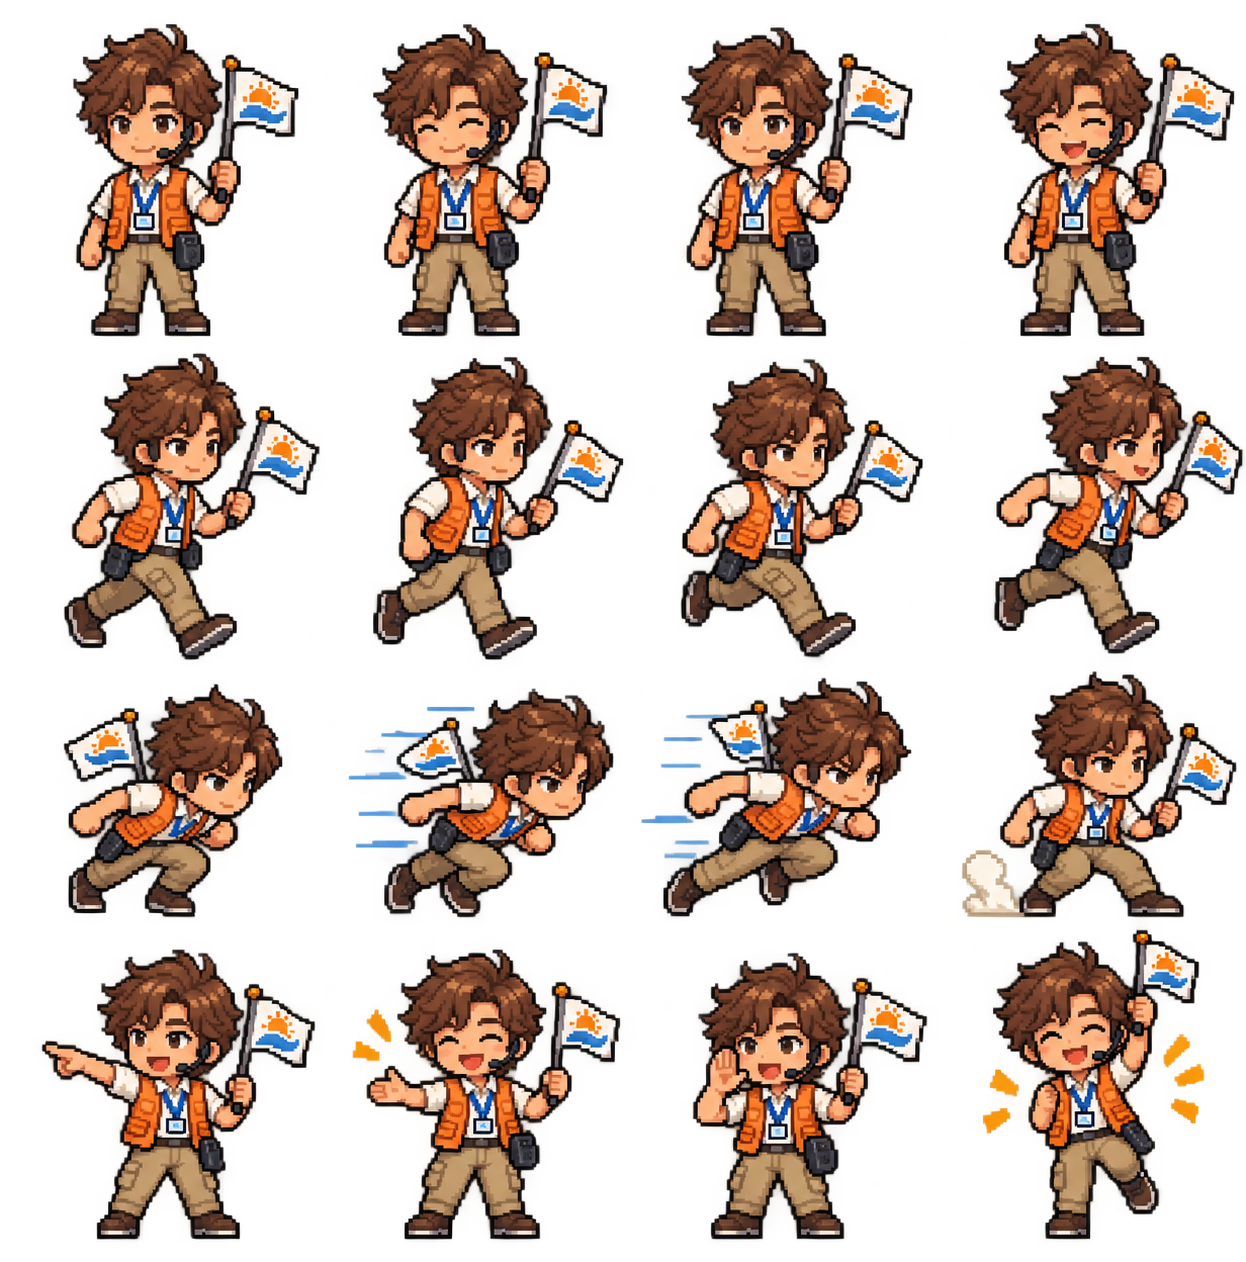
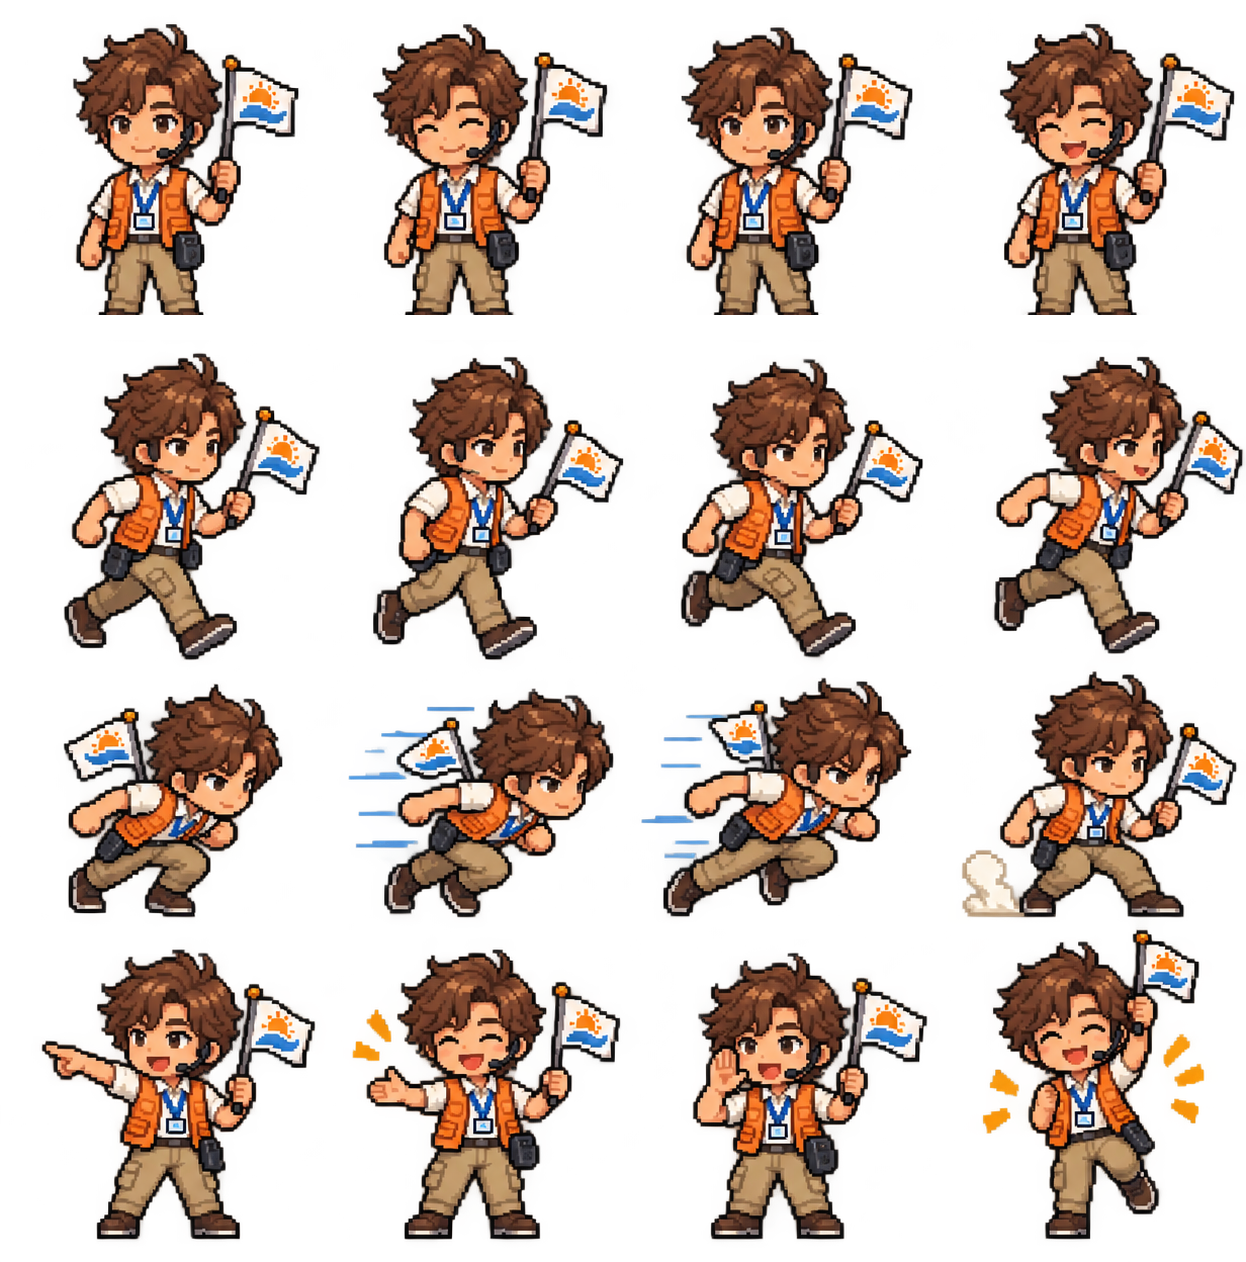
fix(character): 修正左右移動雙腳交替動畫與男導遊圖樣混用
- 修正側向移動對應至動作表 Row 1 (y=315/316) 步態循環，解決原本 Row 2 急停滑行無交替踩踏問題
- 修正 guide_directional_locomotion_sheet_v2_generated.png 第 4 行（正面跑）誤拼入女版墨鏡頭像的問題，恢復男導遊頭像
- 清除男女動作表 row 0 與 row 1 交界處殘留像素
- 更新對應單元測試

diff --git a/lib/game/characters/guide_action_sheet_registry.dart b/lib/game/characters/guide_action_sheet_registry.dart
@@ -202,9 +202,7 @@ CharacterActionSheetAnimation _makeDirectionalAnimation({
   final isSide =
       direction == CharacterDirection.left ||
       direction == CharacterDirection.right;
-  final sideRowY = characterId == 'guide_female'
-      ? (locomotion == 'walk' ? 316 : 632)
-      : (locomotion == 'walk' ? 315 : 631);
+  final sideRowY = characterId == 'guide_female' ? 316 : 315;
   final rowIndex = direction.indexInSheet + (locomotion == 'run' ? 4 : 0);
   final assetPath = isSide ? sideAssetPath : directionalAssetPath;
   return CharacterActionSheetAnimation(

diff --git a/test/game/character_action_sheet_animation_test.dart b/test/game/character_action_sheet_animation_test.dart
@@ -53,7 +53,7 @@ void main() {
         )!.cells.first.sourceOrigin.y,
     ];
 
-    expect(rows, [888, 631, 1332, 631]);
+    expect(rows, [888, 315, 1332, 315]);
     expect(
       actionSheetAnimationFor(
         'guide',
